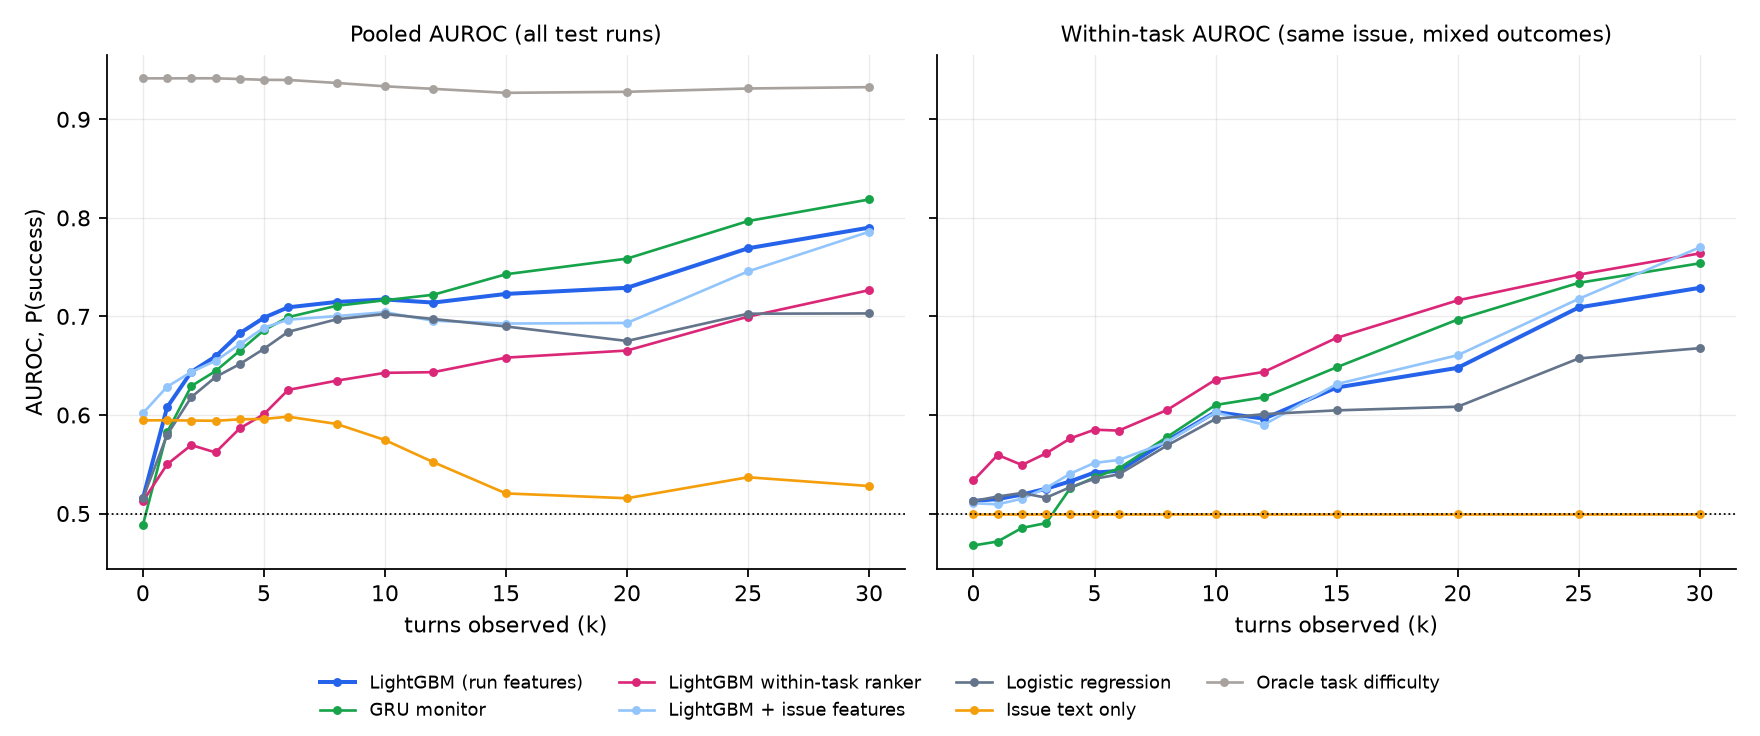
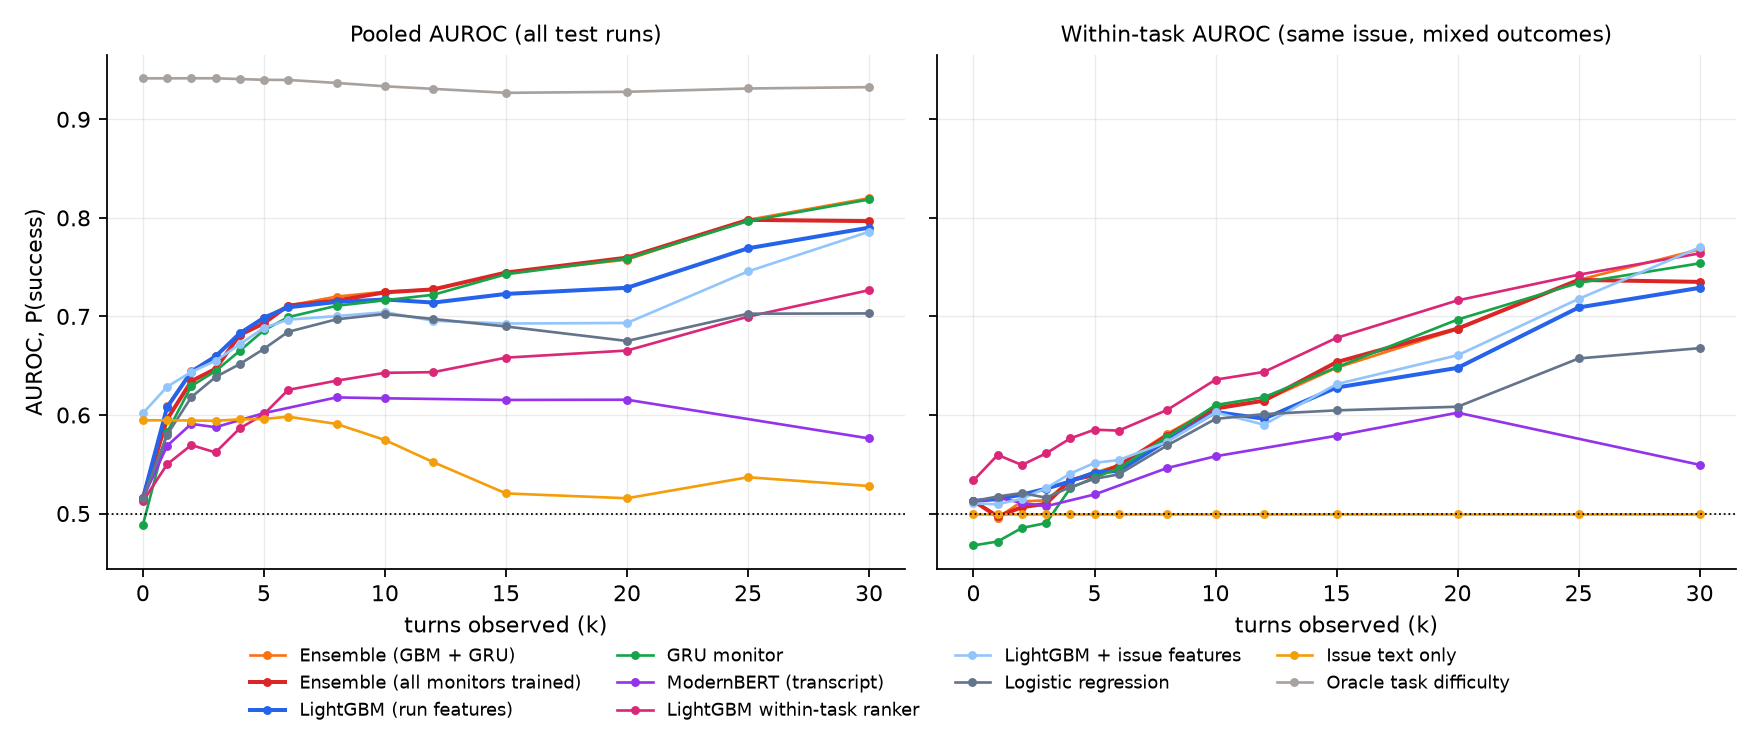
Canary: ModernBERT and ensemble results, refreshed figures

diff --git a/src/content/projects/canary.md b/src/content/projects/canary.md
@@ -32,7 +32,7 @@ bullets:
 <dt>Headline</dt>
 <dd>A GRU monitor saves 46.5% of context-token compute at 2% of successful runs lost, and 60.3% at 5%. The best fixed turn limit saves 24.6% and 39.6%.</dd>
 <dt>Status</dt>
-<dd>Fall 2026, in progress. The monitors, the evaluation, the cross-agent transfer test and the failure taxonomy have run. A fine-tuned ModernBERT model is training.</dd>
+<dd>Fall 2026. All experiments have run: the monitors, a fine-tuned ModernBERT model, ensembles, the cross-agent transfer test, the LLM failure taxonomy and the unsupervised archetypes.</dd>
 </dl>
 </div>
 
@@ -84,12 +84,16 @@ for a given share of successful runs it is allowed to stop.
 | GRU over per-turn signals | 46.5% | 60.3% | 66.3% |
 | LightGBM on prefix features | 40.9% | 51.4% | 64.2% |
 | Logistic regression | 34.8% | 50.6% | 63.0% |
+| ModernBERT on transcript text | 7.3% | 16.4% | 26.4% |
 | Rule: fixed turn limit | 24.6% | 39.6% | 64.0% |
 | Rule: stop after N errors in a row | 19.6% | 25.8% | 36.1% |
 
-<img src="/projects/figures/canary-policy.png" alt="Line chart of compute saved (percent of context tokens) against successful runs killed (percent, 0 to 20). The GRU monitor is highest throughout, saving about 46% at 2% and 60% at 5%. LightGBM and logistic regression sit below it. The fixed turn limit starts lower but meets the learned monitors near 10%. The consecutive-errors rule and an issue-text-only model are well below." width="992" height="704" loading="lazy" />
+<img src="/projects/figures/canary-policy.png" alt="Line chart of compute saved (percent of context tokens) against successful runs killed (percent, 0 to 20). The GRU monitor is highest at small loss budgets, saving about 46% at 2% and 60% at 5%, with the ensembles close behind. LightGBM and logistic regression sit below them and ModernBERT well below. The fixed turn limit starts lower but meets the learned monitors near 10%. The consecutive-errors rule and an issue-text-only model are well below." width="992" height="704" loading="lazy" />
 
 Losing 2% of successes costs a third of a point of solve rate on this test set (16.3% to 15.9%).
+Reading the raw transcript did worse than counting what happened: ModernBERT, fine-tuned on the
+most recent turns that fit in 2,048 tokens, saves 16% at 5% loss, and adding it to an ensemble with
+the GRU and LightGBM lowers the savings.
 The learned monitors win clearly at small loss budgets. At 10% a fixed turn limit catches up,
 because on this agent long runs almost always fail.
 
